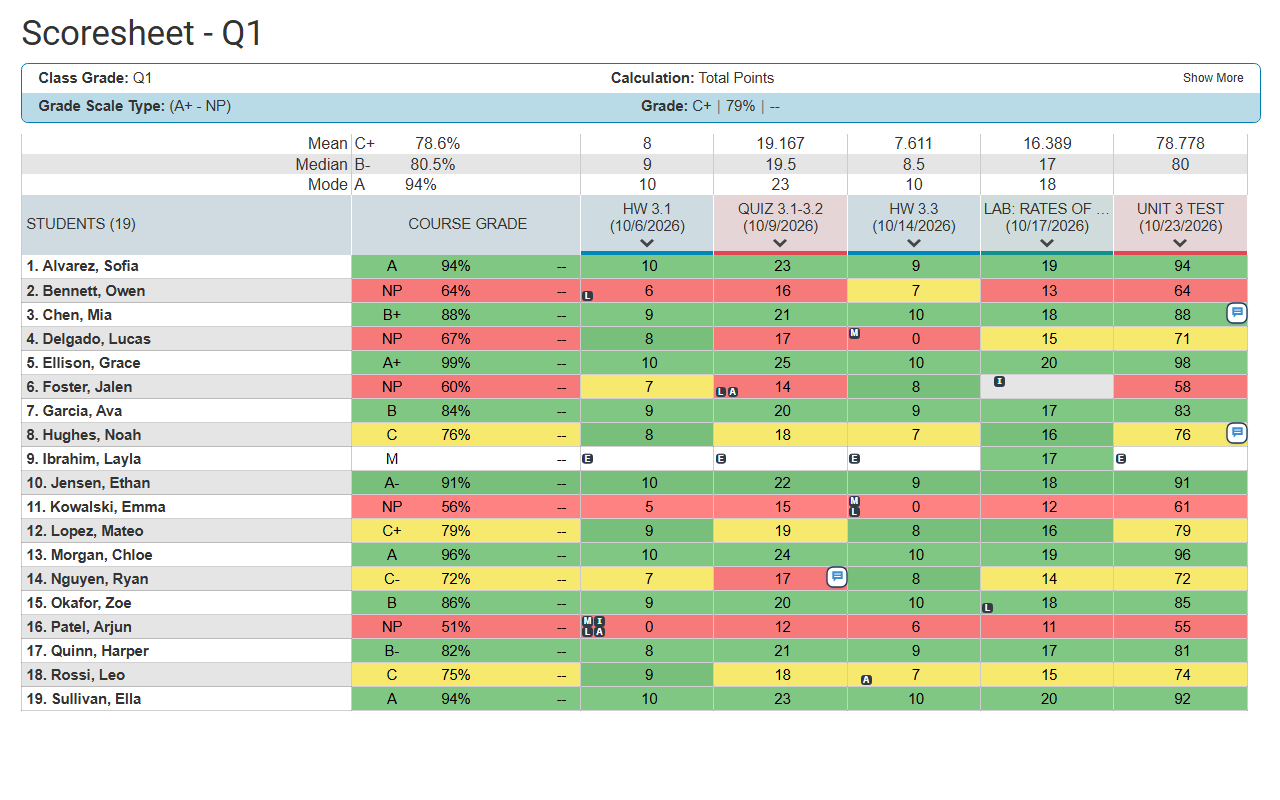
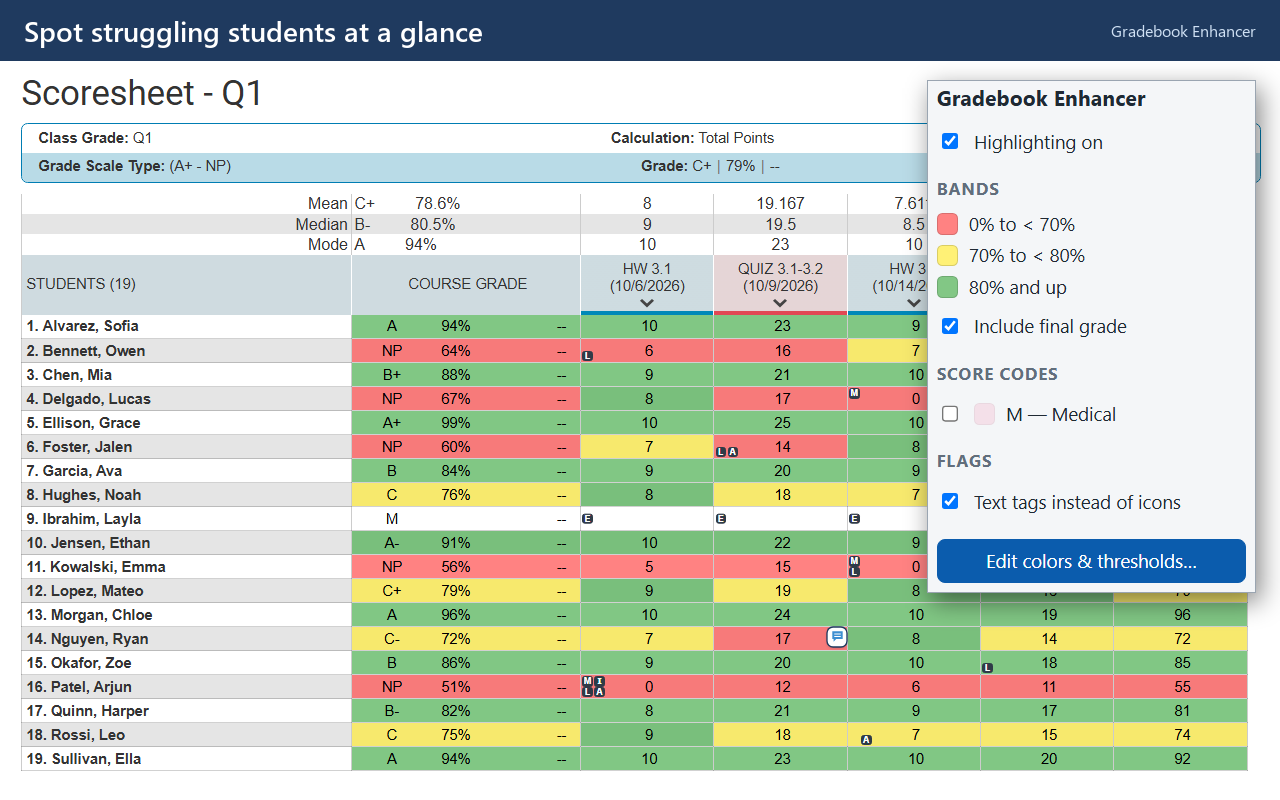
Five captioned store screenshots with settings overlays (v1.06)
Each screenshot shows the sample scoresheet under a settings preset
with the matching settings card (or popup) floating on top and a
caption bar. make_screenshots.py gains presets (default, bands, rows,
codes), only= single-card capture with auto-trim, and hover= to draw
the row outline headlessly. Listing, changelog and handoff updated.

diff --git a/tools/make_screenshots.py b/tools/make_screenshots.py
@@ -1,16 +1,25 @@
 """Builds the Chrome Web Store screenshots (1280x800) and small promo tile.
 
+Each screenshot is the sample scoresheet (extension/demo.html, a PowerTeacher
+look-alike with made-up students) under a given settings preset, with the
+matching settings card floating on top and a one-line caption across the top,
+so a store visitor sees which setting produces which look.
+
 Pipeline (one command: py tools/make_screenshots.py):
 1. Copy extension/ to a temp folder and add a test-only chrome.* stand-in
    (STORAGE_SHIM) before settings.js, so extension pages run over plain http.
-   ?preset=<name> picks the saved settings for a shot.
+   URL parameters drive the shim:
+     preset=<name>   saved settings for the shot (see PRESETS)
+     only=<A>|<B>    options page: show only the cards titled A, B (no header)
+     hover=<row id>  scoresheet: draw the hover outline on that row, since a
+                     headless browser has no mouse
 2. Serve that folder on localhost and capture pages with headless Edge.
-   Pages are rendered at 960x600 CSS px with a 4/3 device scale, so the image is
-   1280x800 but the 11px PowerTeacher text is readable in the store.
+   The scoresheet renders at 960x555 CSS px with a 4/3 device scale (1280x740
+   image) so the 11px PowerTeacher text is readable; a 60px caption bar sits
+   above it. Settings cards are captured at their own width and trimmed to
+   their content automatically (no hand-tuned pixel crops).
 3. Compose the store images with PIL.
 
-Why the demo page: it recreates PowerTeacher's scoresheet with made-up
-students, so screenshots never contain real student data.
 Why Edge: headless Chrome exits with code 21 on this machine (see _strategies.md).
 """
 import functools
@@ -22,7 +31,7 @@ import tempfile
 import threading
 from pathlib import Path
 
-from PIL import Image, ImageDraw, ImageFilter, ImageFont
+from PIL import Image, ImageChops, ImageDraw, ImageFilter, ImageFont
 
 ROOT = Path(__file__).resolve().parent.parent
 OUT = ROOT / "store"
@@ -30,30 +39,34 @@ EDGE = Path(r"C:\Program Files (x86)\Microsoft\Edge\Application\msedge.exe")
 PORT = 8766
 FONT = "C:/Windows/Fonts/segoeui.ttf"
 FONT_BOLD = "C:/Windows/Fonts/segoeuib.ttf"
+FONT_SEMIBOLD = "C:/Windows/Fonts/seguisb.ttf"
+CAPTION_HEIGHT = 60
+CAPTION_BG = "#1f3a5f"
 
-# Settings presets for the shots. Missing keys fall back to the extension's
-# defaults through PTPSettings.normalize, so "default" is simply empty.
+# Settings presets. Missing keys fall back to the extension's defaults through
+# PTPSettings.normalize, so "default" is empty. schemaVersion 2 = bands are
+# already a ladder (band 1 starts at 0, each start = previous end).
 STORAGE_SHIM = r"""
 // Test-only stand-in for chrome.* so extension pages run over http.
 (function () {
   const PRESETS = {
     default: null,
     bands: {
+      schemaVersion: 2,
       assignmentBands: [
-        { enabled: true, min: null, max: 60, color: '#ff4d4d' },
-        { enabled: true, min: 60, max: 70, color: '#ff9800' },
-        { enabled: true, min: 70, max: 80, color: '#ffeb3b' },
+        { enabled: true, min: 0,  max: 60,   color: '#ff4d4d' },
+        { enabled: true, min: 60, max: 70,   color: '#ff9800' },
+        { enabled: true, min: 70, max: 80,   color: '#ffeb3b' },
+        { enabled: true, min: 80, max: 90,   color: '#8bc34a' },
         { enabled: true, min: 90, max: null, color: '#4caf50' }
-      ],
-      finalGrade: { include: true, useAssignmentBands: true }
+      ]
     },
-    all: {
-      finalGrade: { include: true, useAssignmentBands: true },
-      scoreCodes: [{ enabled: true, code: 'M', label: 'Medical', color: '#f48fb1' }]
-    }
+    rows: { schemaVersion: 2, colorStrength: 45, rowDividers: 'both', lineDarkness: 30 },
+    codes: { schemaVersion: 2, scoreCodes: [{ enabled: true, code: 'M', label: 'Medical', color: '#f48fb1' }] }
   };
+  const params = new URLSearchParams(location.search);
   const listeners = [];
-  const preset = PRESETS[new URLSearchParams(location.search).get('preset') || 'default'];
+  const preset = PRESETS[params.get('preset') || 'default'];
   const store = preset ? { settings: preset } : {};
   window.chrome = {
     runtime: { getURL: p => p, openOptionsPage() {} },
@@ -66,8 +79,66 @@ STORAGE_SHIM = r"""
       onChanged: { addListener(fn) { listeners.push(fn); } }
     }
   };
+
+  document.addEventListener('DOMContentLoaded', () => {
+    // Options page: keep only the named cards, so each can be shown on its own.
+    const only = params.get('only');
+    if (only) {
+      const wanted = only.split('|');
+      document.querySelector('.page-header')?.remove();
+      document.querySelector('.actions')?.remove();
+      document.querySelectorAll('main > section.card').forEach(card => {
+        const title = card.querySelector('h2')?.textContent.trim();
+        if (!wanted.includes(title)) card.remove();
+      });
+    }
+    // Scoresheet: the same outline content.js draws on :hover, on one row.
+    const hover = params.get('hover');
+    if (hover) {
+      const style = document.createElement('style');
+      style.textContent = `html.ptp-row-hover tr#${hover} > td, html.ptp-row-hover tr#${hover} > th {
+          box-shadow: inset 0 2px 0 #0b5cad, inset 0 -2px 0 #0b5cad !important; }
+        html.ptp-row-hover tr#${hover} > th { background-color: rgba(11, 92, 173, 0.14) !important; }`;
+      document.head.append(style);
+    }
+  });
 })();
 """
+
+# One store screenshot each: caption, scoresheet preset (+ optional hovered
+# row), and the settings overlay that explains it.
+SHOTS = [
+    {
+        "file": "screenshot-1-in-action.png",
+        "caption": "Spot struggling students at a glance",
+        "sheet": "preset=default",
+        "overlay": ("popup.html?preset=default", 300, 640),
+    },
+    {
+        "file": "screenshot-2-bands.png",
+        "caption": "Set your own grade bands, lowest to highest",
+        "sheet": "preset=bands",
+        "overlay": ("options.html?preset=bands&only=Assignment highlights", 700, 900),
+    },
+    {
+        "file": "screenshot-3-flags.png",
+        "caption": "Clear flag letters and comment badges",
+        "sheet": "preset=default",
+        "overlay": ("options.html?preset=default&only=Flags", 600, 700),
+    },
+    {
+        "file": "screenshot-4-rows.png",
+        "caption": "Rows that are easy to follow",
+        "sheet": "preset=rows&hover=std1007",
+        "overlay": ("options.html?preset=rows&only=Rows %26 colors", 600, 600),
+    },
+    {
+        "file": "screenshot-5-final-codes.png",
+        "caption": "Course grades and special codes like M (Medical)",
+        "sheet": "preset=codes",
+        "overlay": ("options.html?preset=codes&only=Final grade|Score codes", 600, 800),
+    },
+]
 
 
 def prepare_site(site: Path):
@@ -98,19 +169,49 @@ def shoot(shots: Path, name: str, url: str, width: int, height: int, scale: floa
     subprocess.run([str(EDGE), "--headless=new", "--disable-gpu", "--hide-scrollbars",
                     f"--force-device-scale-factor={scale}", f"--user-data-dir={profile}",
                     f"--window-size={width},{height}", "--virtual-time-budget=5000",
-                    f"--screenshot={target}", f"http://127.0.0.1:{PORT}/{url}"],
+                    f"--screenshot={target}", f"http://127.0.0.1:{PORT}/{url.replace(' ', '%20')}"],
                    check=True, capture_output=True)
     return Image.open(target).convert("RGBA")
 
 
+def trim(image: Image.Image, pad: int = 10) -> Image.Image:
+    """Crops away the page background around the content (corner pixel = background)."""
+    background = Image.new("RGBA", image.size, image.getpixel((0, 0)))
+    box = ImageChops.difference(image, background).convert("L").point(lambda v: 255 if v > 8 else 0).getbbox()
+    if not box:
+        return image
+    left, top, right, bottom = box
+    return image.crop((max(0, left - pad), max(0, top - pad), min(image.width, right + pad), min(image.height, bottom + pad)))
+
+
 def float_window(base: Image.Image, window: Image.Image, x: int, y: int) -> Image.Image:
-    """Pastes a page capture over the base like a floating window, with a shadow."""
+    """Pastes a capture over the base like a floating window, with a shadow."""
     shadow = Image.new("RGBA", base.size, (0, 0, 0, 0))
     ImageDraw.Draw(shadow).rectangle([x + 4, y + 8, x + window.width + 4, y + window.height + 8], fill=(0, 0, 0, 120))
     base = Image.alpha_composite(base, shadow.filter(ImageFilter.GaussianBlur(12)))
     base.paste(window, (x, y))
     ImageDraw.Draw(base).rectangle([x, y, x + window.width - 1, y + window.height - 1], outline="#9aa5b1")
     return base
+
+
+def compose(sheet: Image.Image, overlay: Image.Image, caption: str) -> Image.Image:
+    canvas = Image.new("RGBA", (1280, 800), "white")
+    canvas.paste(sheet.crop((0, 0, 1280, 800 - CAPTION_HEIGHT)), (0, CAPTION_HEIGHT))
+
+    # Keep the overlay inside the area below the caption, shrinking it if needed.
+    # 620px wide at most, so the names, course grade and a few assignment
+    # columns always stay visible beside it.
+    max_w, max_h = 620, 800 - CAPTION_HEIGHT - 40
+    ratio = min(1.0, max_w / overlay.width, max_h / overlay.height)
+    if ratio < 1:
+        overlay = overlay.resize((int(overlay.width * ratio), int(overlay.height * ratio)), Image.LANCZOS)
+    canvas = float_window(canvas, overlay, 1280 - overlay.width - 24, CAPTION_HEIGHT + 20)
+
+    draw = ImageDraw.Draw(canvas)
+    draw.rectangle([0, 0, 1280, CAPTION_HEIGHT], fill=CAPTION_BG)
+    draw.text((24, CAPTION_HEIGHT // 2), caption, font=ImageFont.truetype(FONT_SEMIBOLD, 28), fill="white", anchor="lm")
+    draw.text((1256, CAPTION_HEIGHT // 2), "Gradebook Enhancer", font=ImageFont.truetype(FONT, 16), fill="#cfe0f3", anchor="rm")
+    return canvas
 
 
 def save(image: Image.Image, name: str):
@@ -122,30 +223,24 @@ def main():
     if not EDGE.exists():
         sys.exit(f"Edge not found at {EDGE}")
     OUT.mkdir(exist_ok=True)
+    for old in OUT.glob("screenshot-*.png"):  # names change as shots are added or removed
+        old.unlink()
+
+    scale = 4 / 3
     with tempfile.TemporaryDirectory(ignore_cleanup_errors=True) as temp:
         site, shots = Path(temp) / "site", Path(temp) / "shots"
         shots.mkdir()
         prepare_site(site)
         server = serve(site)
         try:
-            scale = 4 / 3
-            in_action = shoot(shots, "in-action", "demo.html?shot&preset=default", 960, 600, scale)
-            bands = shoot(shots, "bands", "demo.html?shot&preset=bands", 960, 600, scale)
-            flags = shoot(shots, "flags", "demo.html?shot&preset=all", 960, 600, scale)
-            options = shoot(shots, "options", "options.html?preset=all", 720, 1100, 1)
+            for index, shot in enumerate(SHOTS, start=1):
+                sheet = shoot(shots, f"sheet-{index}", f"demo.html?shot&{shot['sheet']}", 960, 555, scale)
+                url, width, height = shot["overlay"]
+                # Settings at the same 4/3 scale as the scoresheet, so text sizes match.
+                overlay = trim(shoot(shots, f"overlay-{index}", url, width, height, scale))
+                save(compose(sheet, overlay, shot["caption"]), shot["file"])
         finally:
             server.shutdown()
-
-    save(in_action, "screenshot-1-in-action.png")
-    save(bands, "screenshot-2-bands.png")
-    save(flags, "screenshot-3-flags.png")
-
-    # 4: settings page floating over the right side of the default scoresheet,
-    # cropped to the "Rows & colors" and "Assignment highlights" cards (range
-    # bar, wording, example scores) so no card is cut in half.
-    # Captured 720px wide so band rows don't wrap; y 156–874 holds both cards.
-    settings_window = options.crop((0, 156, 720, 874))
-    save(float_window(in_action.copy(), settings_window, 1280 - 720 - 28, 36), "screenshot-4-settings.png")
 
     # Small promo tile.
     tile = Image.new("RGB", (440, 280), "#1f3a5f")

diff --git a/_handoff.md b/_handoff.md
@@ -52,7 +52,7 @@ Root (not packaged): `FEATURES.md`, `CHANGELOG.md`, `STRATEGIES_THAT_WONT_WORK.m
 - Band ladder editor (2026-11-10, branch v1.05): band 1 starts at 0, each start = previous end (auto), only ends typed, switch a band off for an uncolored range, no move buttons; example scores, "Covers" lines, 0–100% bar, per-row warnings. Schema 2: `migrate` runs `toLadder` once on older saves. Tested in the options page over localhost: an end of 65 moved the next start; unchecking a band striped its range; Add band stacked "90% and up"; an end below the start warned and tinted the row.
 
 ## Regenerating store images
-`py tools/make_screenshots.py` (plain `py`, because PIL needs user site-packages). It copies `extension/` to a temp folder, adds a chrome.* storage shim with presets (default / bands / all), serves it on 127.0.0.1:8766, and captures the demo (`?shot`) and options pages with headless **Edge** at 960x600 CSS px × 4/3 scale, then composes `store/screenshot-1..4` and the promo tile. Headless Chrome exits with code 21 on this machine.
+`py tools/make_screenshots.py` (plain `py`, because PIL needs user site-packages). It copies `extension/` to a temp folder, adds a chrome.* storage shim (presets default / bands / rows / codes; `only=<card title>|…` shows single options cards; `hover=<row id>` fakes the hover outline), serves it on 127.0.0.1:8766, and captures with headless **Edge** at a 4/3 device scale. Each of the 5 store shots = scoresheet (960x555 CSS) + 60px caption bar + a trimmed settings card or popup overlay (max 620px wide). The shot list lives in `SHOTS` at the top of the script. Headless Chrome exits with code 21 on this machine.
 
 ## Next steps
 1. Reload the unpacked `extension` folder in Chrome and smoke-test on a real scoresheet: colors, tags, row lines, popup and options saving. Open `chrome-extension://<ID>/demo.html` to check the reviewer demo.

diff --git a/CHANGELOG.md b/CHANGELOG.md
@@ -4,6 +4,7 @@
 First public release (manifest version `1.0`). It includes all the work below, which was built as pre-release 2.0.0 and 2.1.0. Those numbers were never published.
 
 ### Chrome Web Store prep (branch v1.03)
+- **Store screenshots redone (5):** each shows the sample scoresheet under a settings preset, with the matching settings card or popup floating on top and a caption bar. `tools/make_screenshots.py` now has presets (default, bands, rows, codes), `only=` to show single settings cards (auto-trimmed, no hand-tuned crops), and `hover=` to draw the row outline headlessly.
 - **Demo page is now hidden:** it still ships (so Chrome Web Store reviewers can test without a PowerTeacher login), but the popup button and the settings-page link are gone. The reviewer test instructions give its chrome-extension:// address.
 - Settings: "Outline the row under the mouse" → "Outline the row when you hover over it".
 - **Line darkness slider** under "Row lines" (Lighter ↔ Darker, 10–40% black, default 18 = the old look). It drives a `--ptp-line` CSS variable; the every-5 line is 2.5× as dark, capped at 85%. It's grayed out when row lines are off.

diff --git a/store/LISTING.md b/store/LISTING.md
@@ -45,7 +45,7 @@ Gradebook Enhancer is an independent tool for teachers. It is not affiliated wit
 | Field | File |
 |---|---|
 | Store icon (128×128) | `store-icon-128.png` |
-| Screenshots (1280×800, in this order) | `screenshot-1-in-action.png` (default settings), `screenshot-2-bands.png` (custom bands + final grade), `screenshot-3-flags.png` (flag letters, comment badges, Medical code, final grade), `screenshot-4-settings.png` (settings page beside the scoresheet) |
+| Screenshots (1280×800, in this order) | `screenshot-1-in-action.png` (defaults + toolbar popup), `screenshot-2-bands.png` (5-band scheme + band editor), `screenshot-3-flags.png` (flag letters, comment badges + Flags card), `screenshot-4-rows.png` (softer colors, heavier lines, outlined row + Rows & colors card), `screenshot-5-final-codes.png` (Medical code in the course grade + Final grade and Score codes cards) |
 | Small promo tile (440×280) | `promo-small-440x280.png` |
 | Marquee promo tile | optional, skip |
 
